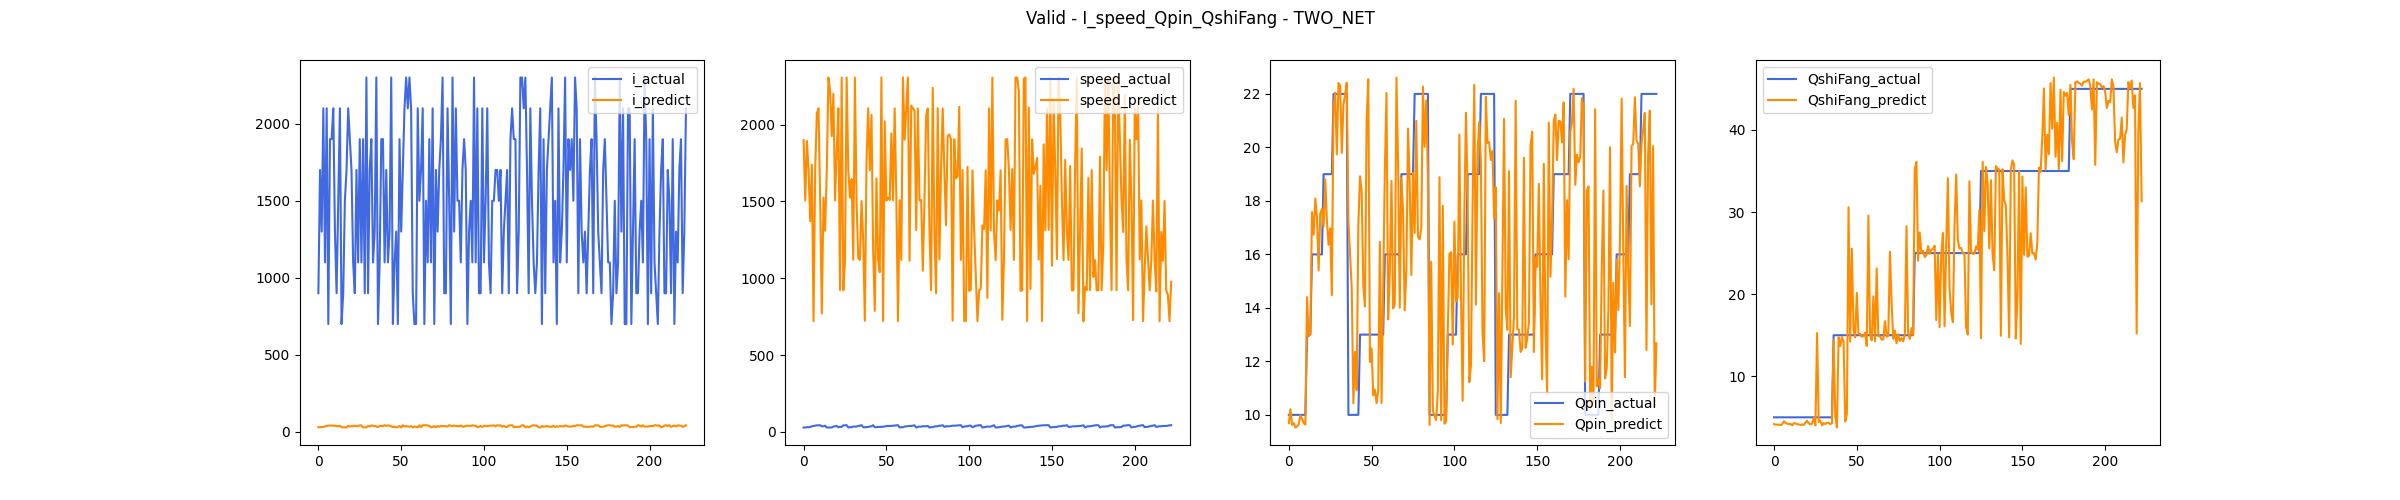
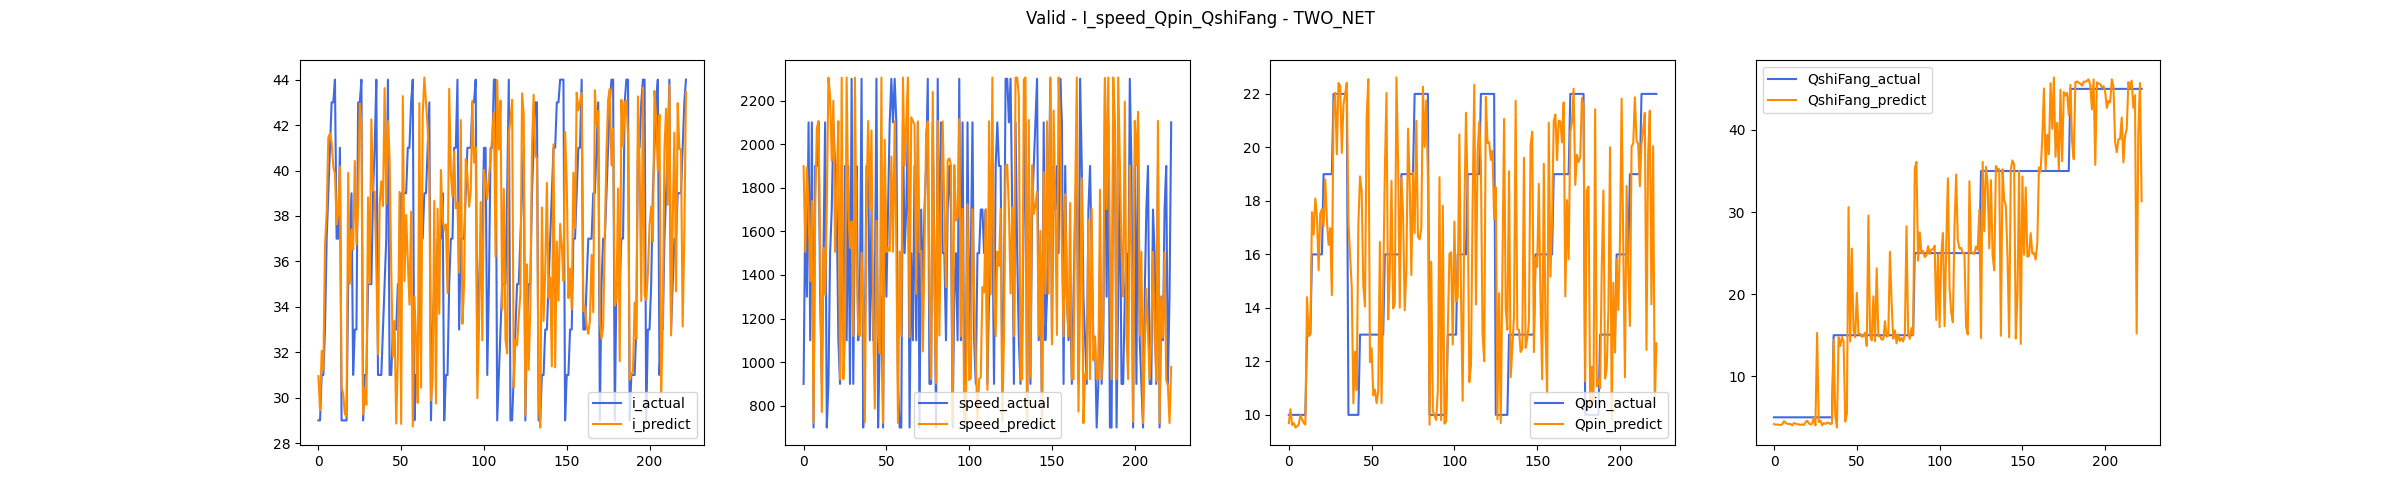
update backward test.py

Changed region(s): [[0.0938, 0.15, 0.5, 0.87]]

diff --git a/backward/test.py b/backward/test.py
@@ -1,7 +1,7 @@
 import openpyxl
 import torch
 from matplotlib import pyplot as plt
-from dataset import DataSet
+from dataset import DataSet_backward
 from net import Net
 from net_backward import Net as Net_bcakward
 import config
@@ -152,7 +152,7 @@ def test_two_net(_model_1, _model_2, to_predict, actual, name):
 
 if __name__ == '__main__':
 
-    dataSet = DataSet()
+    dataSet = DataSet_backward()
 
     if len(sys.argv) == 2 and sys.argv[1] == 'two_model':
         print(f"test two model~")
